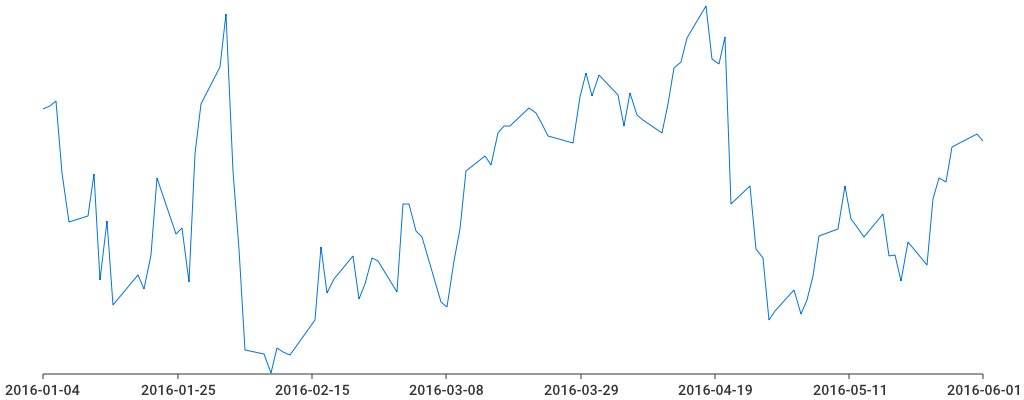
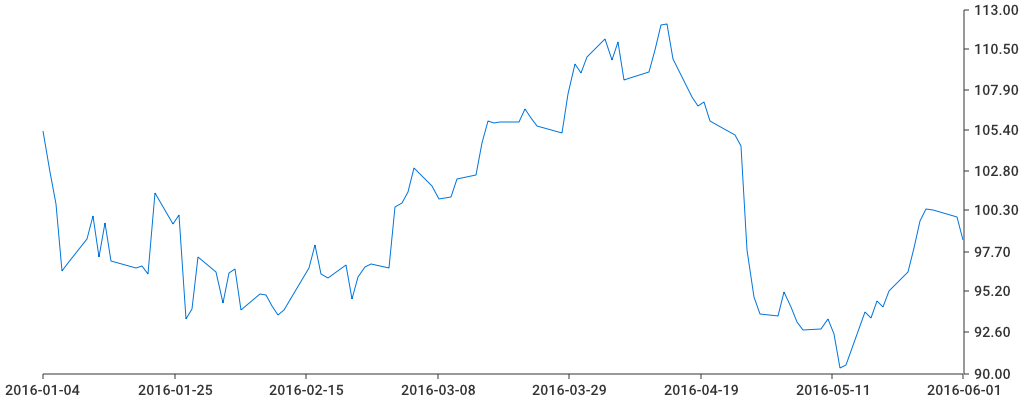
update chart, show YAxis

diff --git a/chart/main.go b/chart/main.go
@@ -14,7 +14,7 @@ import (
 func main() {
 	
 	var date_duration [2]string = [2]string{"2016-01-01", "2016-06-01"}
-	days := yql.GetHistoricalData("GOOG", "daily", date_duration)
+	days := yql.GetHistoricalData("AAPL", "daily", date_duration)
 	var day_t_x []time.Time
 	var day_c_y []float64
 	for _, day := range days {
@@ -27,6 +27,9 @@ func main() {
 			Style: chart.Style{
 				Show: true,
 			},
+		},
+		YAxis: chart.YAxis{
+			Style: chart.StyleShow(),
 		},
 		Series: []chart.Series{
 			chart.TimeSeries{
